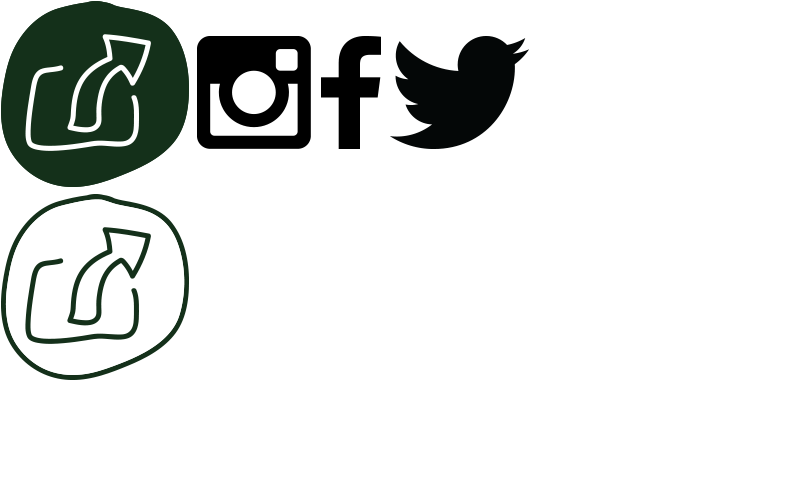
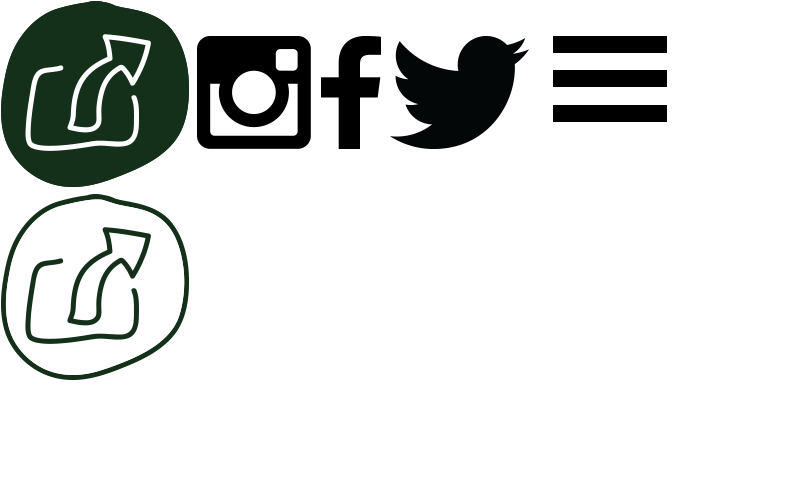
Lot of Changes.
+ JQuarry fixed
+ Mobile Navigation

Changed region(s): [[0.7005, 0.0621, 0.8528, 0.1863], [0.7005, 0.2174, 0.8528, 0.2795]]

diff --git a/js/scripts.js b/js/scripts.js
@@ -1,4 +1,4 @@
-$(function(){
+$(document).ready(function() {
 
 //background
 
@@ -10,12 +10,61 @@ $(function(){
                 automatic: true,
                 keyboardnav : true
             });
+			
+			 
+//$(window).resize(function() {
+//        //small-screen
+//	  if (window.innerWidth < 500) {
+//		$("#sub-wrapper, #sub-content-wrapper, #activate-button, .link").click(function(e){
+//		e.stopPropagation();
+//		$("#wrapper").animate({"margin-left":"-100%"});
+//		});
+//	  }
+//	  else { 
+//		$("#sub-wrapper, #sub-content-wrapper, #activate-button, .link").click(function(e){
+//		e.stopPropagation();
+//		$("#wrapper").animate({"margin-left":"-58%"});
+//		});
+//	  }
+//});
+
+function checkSize() {
+    //small-screen
+    if (window.innerWidth < 500) {
+	  $("#sub-wrapper, #sub-content-wrapper, #activate-button, .link").click(function(e){
+	  e.stopPropagation();
+	  $("#wrapper").animate({"margin-left":"-100%"});
+	  });
+    }
+    //end small-screen
+	else { 
+		  $('.widescreen').remove();
+	  $("#sub-wrapper, #sub-content-wrapper, #activate-button, .link").click(function(e){
+	  e.stopPropagation();
+	  $("#wrapper").animate({"margin-left":"-58%"});
+	  });
+	}
+}
+
+checkSize();
+
+$(window).resize(function() {
+    checkSize();
+});
+
+/* NAV Mobile slide */	
+  $('#mob-menu, #prizes, #winners, #aboutus, #home').click(function () {
+  $('.menu').slideToggle(0);
+  return false;
+});
+
+
 
 // some Jquery to control switching between right and left side of the website
-    $("#sub-wrapper, #sub-content-wrapper, #activate-button, .link").click(function(e){
-        e.stopPropagation();
-        $("#wrapper").animate({"margin-left":"-58%"});
-    });
+//    $("#sub-wrapper, #sub-content-wrapper, #activate-button, .link").click(function(e){
+//        e.stopPropagation();
+//        $("#wrapper").animate({"margin-left":"-58%"});
+//    });
 
     $("#main-wrapper, #main-content-wrapper").click(function(e){
         e.stopPropagation();

diff --git a/style.css b/style.css
@@ -143,6 +143,62 @@ form input{
 	}
 
 /***
+	/MOBILE / NAVIGATION
+***/
+	
+nav {
+	right: 0;
+	top: 0;
+}
+
+#mob-menu {
+	display: none;
+	position: fixed;
+	z-index: 2;
+	width: 50px;
+	height: 50px;
+	background-color: #FFFFFF;
+	border-radius: 10px;
+	border: solid 1px #000000;
+	margin: 10px;
+	right: 0;
+	top: 0;
+	cursor: pointer;
+}
+
+.mob-menu-icon {
+	display: block;
+	background-image: url("img/randoms_icon.png");
+	background-repeat: no-repeat;
+	background-size: 250px;
+	background-position: -176px -12px;
+	width: 35px;
+	height: 26px;
+	margin: 12px auto;
+	left:0;
+	right:0;
+}
+
+.menu {
+	display: none;
+	position: fixed;
+	z-index: 1;
+	top: 0;
+	left: 0;
+	min-width: 100%;
+	min-height: 100%;
+	background-color: #FFFFFF;
+}
+
+/*&:after { content: '☰'; }
+&.nav-open:after { content: '×'; }
+*/
+
+/*	background-color: #6EFFF7;
+	border-radius: 10px;*/
+
+
+/***
 	SOCIAL ICONS ON HOMEPAGE
 ***/
 i{
@@ -493,11 +549,14 @@ ul.bjqs li img {
 @media screen and (max-width: 500px) {
 
 	#wrapper{
-		width: 200%;$
+		width: 200%;
 	}
 	/*switches out the mobile and desktop main text*/
-	.desktop{
+	.desktop {
 		display: none !important;
+	}
+	#mob-menu {
+		display: block;
 	}
 
 	.mobile{

diff --git a/index.php b/index.php
@@ -92,7 +92,7 @@
                 });
             }
 
-        });
+        //}); //error
         </script>
     </head>
 
@@ -112,6 +112,18 @@
 
               </div>
                 <section id='main-content-wrapper'>
+                    <!-- Mobile Navigation -->
+                    <div id="mob-menu" ><samp class="mob-menu-icon"></samp></div>
+                    <nav>
+                        <section class="menu">
+                            <li><a href="#" id="home">Home</a></li>
+                            <li><a href="#" class="link aboutus" id="aboutus">About Us</a></li>
+                            <li><a href="#" class="link prizes" id="prizes">Prize</a></li>
+                            <li><a href="index.php" class="link winners" id="winners">Winner</a></li>
+                            <li><a>Activation code</a></li>
+                        </section>
+                    </nav>
+                    
                     <h2>
                         Hej Denmark!!! We're <a href="index.php" class="link aboutus"><img id='logo' src="img/website/logo.png" alt="randoms"/></a>
                     </h2>
@@ -123,13 +135,13 @@
                         and much more...
 
                         Are you a lucky
-                       <span> <a href="index.php" class="link winners">winner</a></span>?
+                       <span> <a href="index.php" class="link winners">winner</a></span>
                         </h2>
                     </article>
 
                     <p class="mobile">
                         Are you a lucky
-                       <span> <a href="index.php" class="link winners">winner</a></span>?
+                       <span> <a href="index.php" class="link winners">winner</a></span>
 
                     </p>
 
